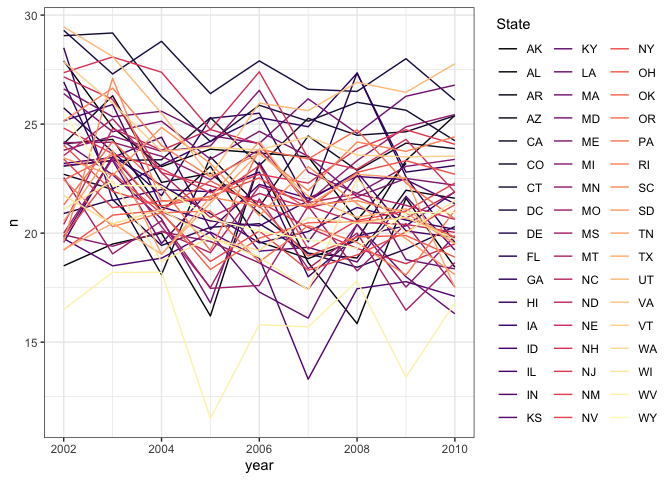
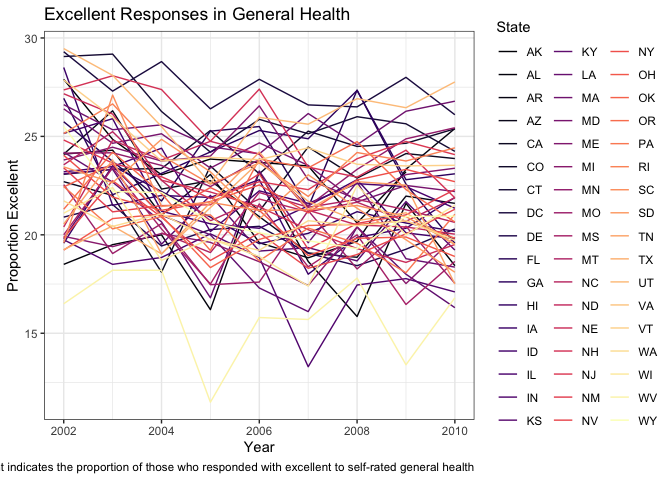
added figure titles and labels

diff --git a/p8105_hw3_at3343.md b/p8105_hw3_at3343.md
@@ -13,7 +13,27 @@ Loading data and generating preview:
 library(p8105.datasets)
 data("instacart")
 view(head(instacart, n = 50))
+
+instacart
 ```
+
+    ## # A tibble: 1,384,617 x 15
+    ##    order_id product_id add_to_cart_ord… reordered user_id eval_set
+    ##       <int>      <int>            <int>     <int>   <int> <chr>   
+    ##  1        1      49302                1         1  112108 train   
+    ##  2        1      11109                2         1  112108 train   
+    ##  3        1      10246                3         0  112108 train   
+    ##  4        1      49683                4         0  112108 train   
+    ##  5        1      43633                5         1  112108 train   
+    ##  6        1      13176                6         0  112108 train   
+    ##  7        1      47209                7         0  112108 train   
+    ##  8        1      22035                8         1  112108 train   
+    ##  9       36      39612                1         0   79431 train   
+    ## 10       36      19660                2         1   79431 train   
+    ## # … with 1,384,607 more rows, and 9 more variables: order_number <int>,
+    ## #   order_dow <int>, order_hour_of_day <int>,
+    ## #   days_since_prior_order <int>, product_name <chr>, aisle_id <int>,
+    ## #   department_id <int>, aisle <chr>, department <chr>
 
 The instacart dataset contains 1,384,617 observations and 15 variables.
 It catalogues instacart orders from October 2017 in New York City. Key
@@ -148,7 +168,30 @@ Loading BRFSS dataset:
 library(p8105.datasets)
 data("brfss_smart2010")
 view(head(brfss_smart2010, n = 100))
+
+brfss_smart2010
 ```
+
+    ## # A tibble: 134,203 x 23
+    ##     Year Locationabbr Locationdesc Class Topic Question Response
+    ##    <int> <chr>        <chr>        <chr> <chr> <chr>    <chr>   
+    ##  1  2010 AL           AL - Jeffer… Heal… Over… How is … Excelle…
+    ##  2  2010 AL           AL - Jeffer… Heal… Over… How is … Very go…
+    ##  3  2010 AL           AL - Jeffer… Heal… Over… How is … Good    
+    ##  4  2010 AL           AL - Jeffer… Heal… Over… How is … Fair    
+    ##  5  2010 AL           AL - Jeffer… Heal… Over… How is … Poor    
+    ##  6  2010 AL           AL - Jeffer… Heal… Fair… Health … Good or…
+    ##  7  2010 AL           AL - Jeffer… Heal… Fair… Health … Fair or…
+    ##  8  2010 AL           AL - Jeffer… Heal… Heal… Do you … Yes     
+    ##  9  2010 AL           AL - Jeffer… Heal… Heal… Do you … No      
+    ## 10  2010 AL           AL - Jeffer… Heal… Unde… Adults … Yes     
+    ## # … with 134,193 more rows, and 16 more variables: Sample_Size <int>,
+    ## #   Data_value <dbl>, Confidence_limit_Low <dbl>,
+    ## #   Confidence_limit_High <dbl>, Display_order <int>,
+    ## #   Data_value_unit <chr>, Data_value_type <chr>,
+    ## #   Data_Value_Footnote_Symbol <chr>, Data_Value_Footnote <chr>,
+    ## #   DataSource <chr>, ClassId <chr>, TopicId <chr>, LocationID <chr>,
+    ## #   QuestionID <chr>, RESPID <chr>, GeoLocation <chr>
 
 The dataset contains 134,203 observations and 23 variables.
 
@@ -287,6 +330,12 @@ brfss_excellent %>%
     discrete = TRUE, 
     option = "magma"
   ) + 
+   labs(
+    title = "Excellent Responses in General Health",
+    x = "Year",
+    y = "Proportion Excellent", 
+    caption = "Proportion Excellent indicates the proportion of those who responded with excellent to self-rated general health"
+   ) +
   theme_bw()
 ```
 
@@ -302,7 +351,13 @@ brfss_clean %>%
   select(year, state, county, response, data_value) %>% 
   ggplot(aes(x = response, y = data_value, color = state)) + 
     geom_boxplot() + 
-    facet_grid(. ~ year)
+    facet_grid(. ~ year) +  
+  labs(
+    title = "Distribution of Self-Rated Health in NY",
+    x = "Response",
+    y = "Proportion"
+  ) + 
+  theme_bw()
 ```
 
 ![](p8105_hw3_at3343_files/figure-gfm/dataframe_12-1.png)<!-- -->
@@ -415,7 +470,9 @@ by day of week.
   ggplot(aes(x = hour, y = n)) +
     geom_line(aes(color = day)) +
     labs(
-    y = "Activity") +
+    x = "Hour", 
+    y = "Activity",
+    title = "Activity by Hour") +
     scale_y_continuous(
     breaks = c(50000, 100000, 150000, 200000, 250000, 300000)
   )
